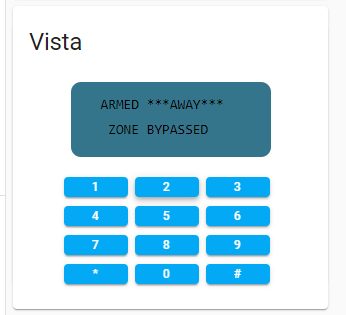
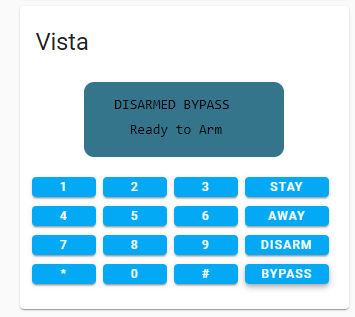
- added ability to customize function keys on alarm card

diff --git a/ha_cards/alarm-keypad-card.js b/ha_cards/alarm-keypad-card.js
@@ -181,34 +181,34 @@ class AlarmKeypadCard extends Polymer.Element {
                         title='Unset'>#
                       </button>
                     </div>
-<!--
+
                     <div>
                       <button
                         class='mdc-button mdc-button--raised mdc-ripple-upgraded'
                         toggles state="A"
                         on-click='setState'
-                        title='Unset'>A
+                        title='Unset'>{{_button_A}}
                       </button>
                       <button
                         class='mdc-button mdc-button--raised mdc-ripple-upgraded'
                         toggles state="B"
                         on-click='setState'
-                        title='Unset'>B
+                        title='Unset'>{{_button_B}}
                       </button>
                       <button
                         class='mdc-button mdc-button--raised mdc-ripple-upgraded'
                         toggles state="C"
                         on-click='setState'
-                        title='Unset'>C
+                        title='Unset'>{{_button_C}}
                       </button>
                       <button
                         class='mdc-button mdc-button--raised mdc-ripple-upgraded'
                         toggles state="D"
                         on-click='setState'
-                        title='Unset'>D
+                        title='Unset'>{{_button_D}}
                       </button>
                     </div>
-                    -->
+                    
                   </div>
                 </template>
 
@@ -267,8 +267,17 @@ class AlarmKeypadCard extends Polymer.Element {
           type: Object,
           observer: 'settingChanged'
         },
+     
         _kpdservice: String,
         _kpdservicekey: String,
+        _button_A: String,
+        _button_B: String,
+        _button_C: String,
+        _button_D: String, 
+        _cmd_A: String,
+        _cmd_B: String,
+        _cmd_C: String,
+        _cmd_D: String,        
         _line1: String,
         _line2: String,
         _view_display: Boolean,
@@ -293,7 +302,16 @@ class AlarmKeypadCard extends Polymer.Element {
         _view_display: (config.view_display != null) ? config.view_display : true,
         _view_pad: (config.view_pad != null) ? config.view_pad : true,
         _view_quickset: (config.view_quickset != null) ? config.view_quickset : false,
-        _scale: (config.scale != null) ? "transform-origin: 0 0; zoom: "+config.scale+"; -moz-transform: scale("+config.scale+");" : "1"
+        _scale: (config.scale != null) ? "transform-origin: 0 0; zoom: "+config.scale+"; -moz-transform: scale("+config.scale+");" : "1",
+        _button_A: (config.button_A != null)?config.button_A:"A",
+        _button_B: (config.button_B != null)?config.button_B:"B",
+        _button_C: (config.button_C != null)?config.button_C:"C",
+        _button_D: (config.button_D != null)?config.button_D:"D",
+        _cmd_A: (config.cmd_A != null)?config.cmd_A:"",
+        _cmd_B: (config.cmd_B != null)?config.cmd_B:"",
+        _cmd_C: (config.cmd_C != null)?config.cmd_C:"",
+        _cmd_D: (config.cmd_D != null)?config.cmd_D:""        
+        
       });
   }
 
@@ -360,7 +378,17 @@ class AlarmKeypadCard extends Polymer.Element {
 
   setState(e) {
       var newState = {};
-     newState[this._kpdservicekey]= e.currentTarget.getAttribute('state');
+      var key=e.currentTarget.getAttribute('state');
+      
+     switch (key) {
+         case 'A': key=this._cmd_A; break;
+         case 'B': key=this._cmd_B; break;
+         case 'C': key=this._cmd_C; break;
+         case 'D': key=this._cmd_D; break;
+ 
+     }
+     
+     newState[this._kpdservicekey]=key ;
      this._hass.callService('ESPHome', this._kpdservice,newState);
      // this._hass.callService('ESPHome', 'vistaalarmtest_alarm_keypress', { "keys":newState      });
   }
